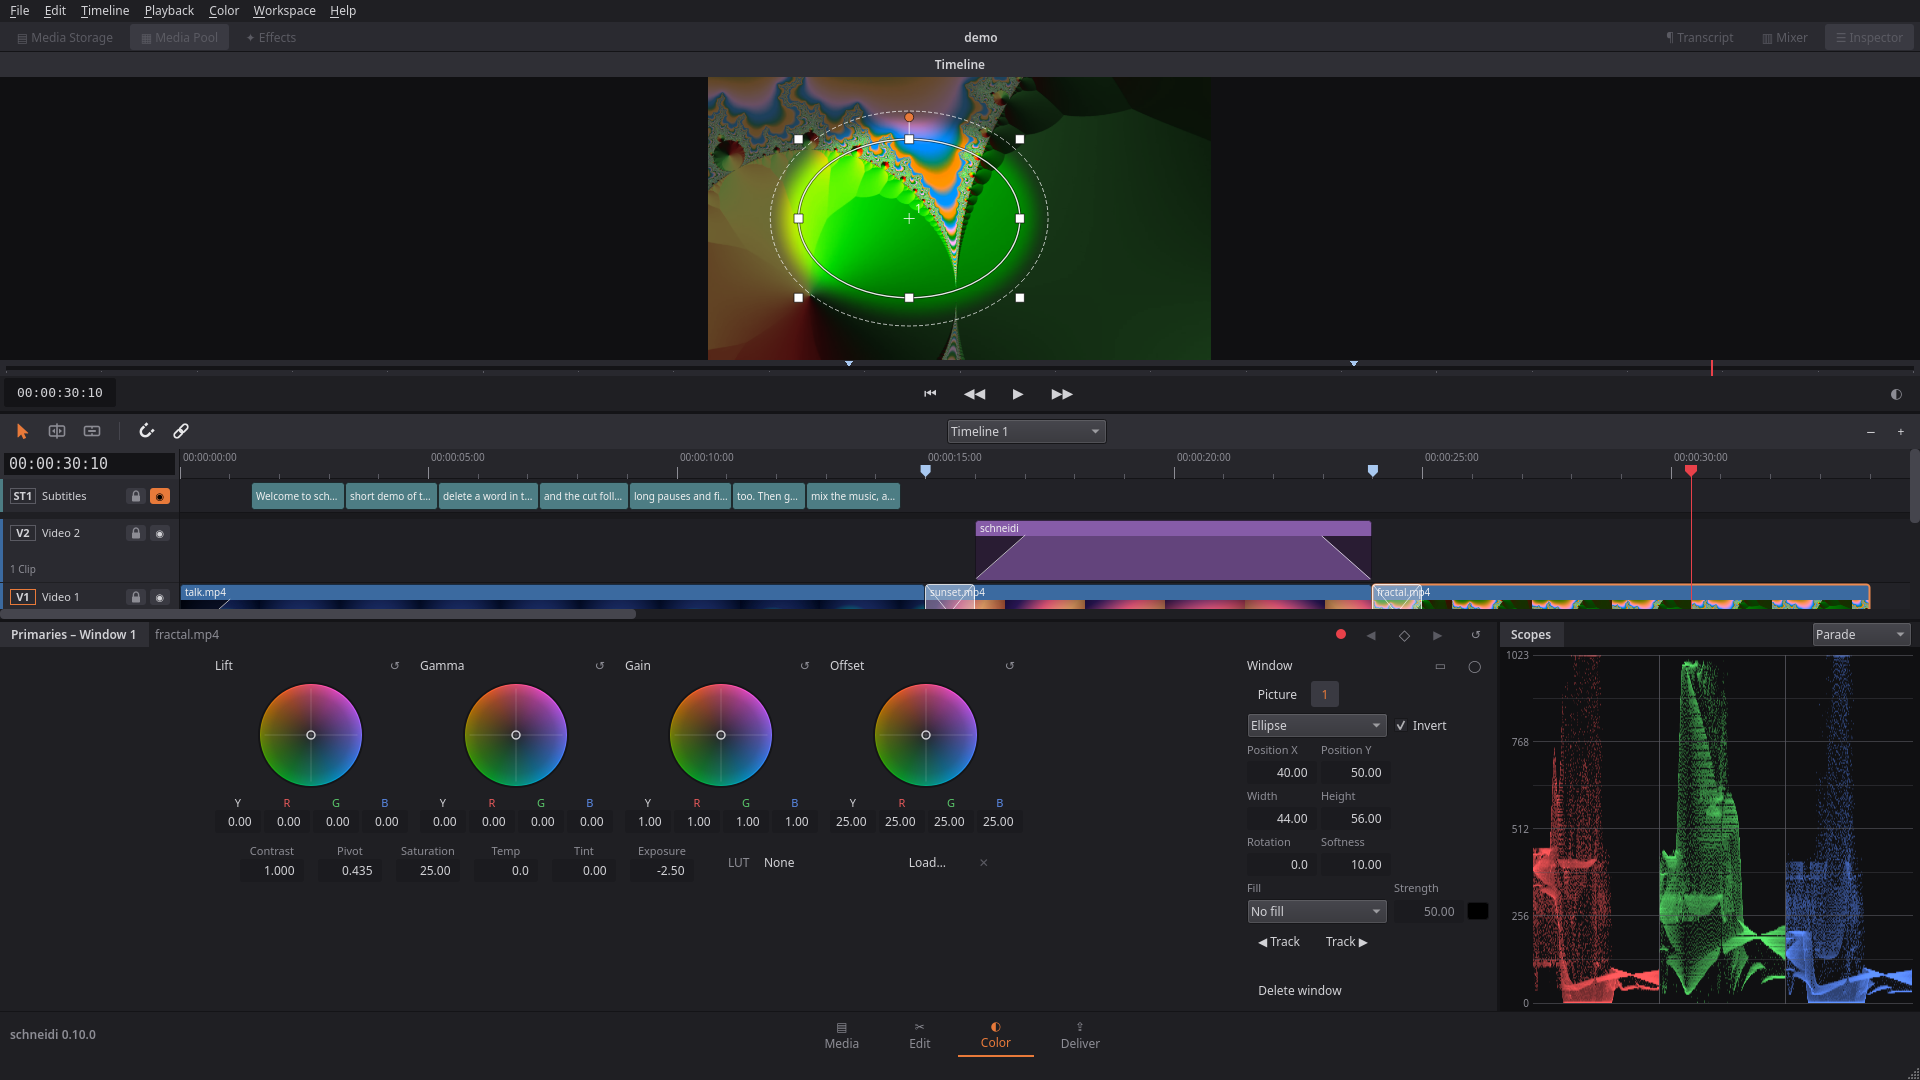
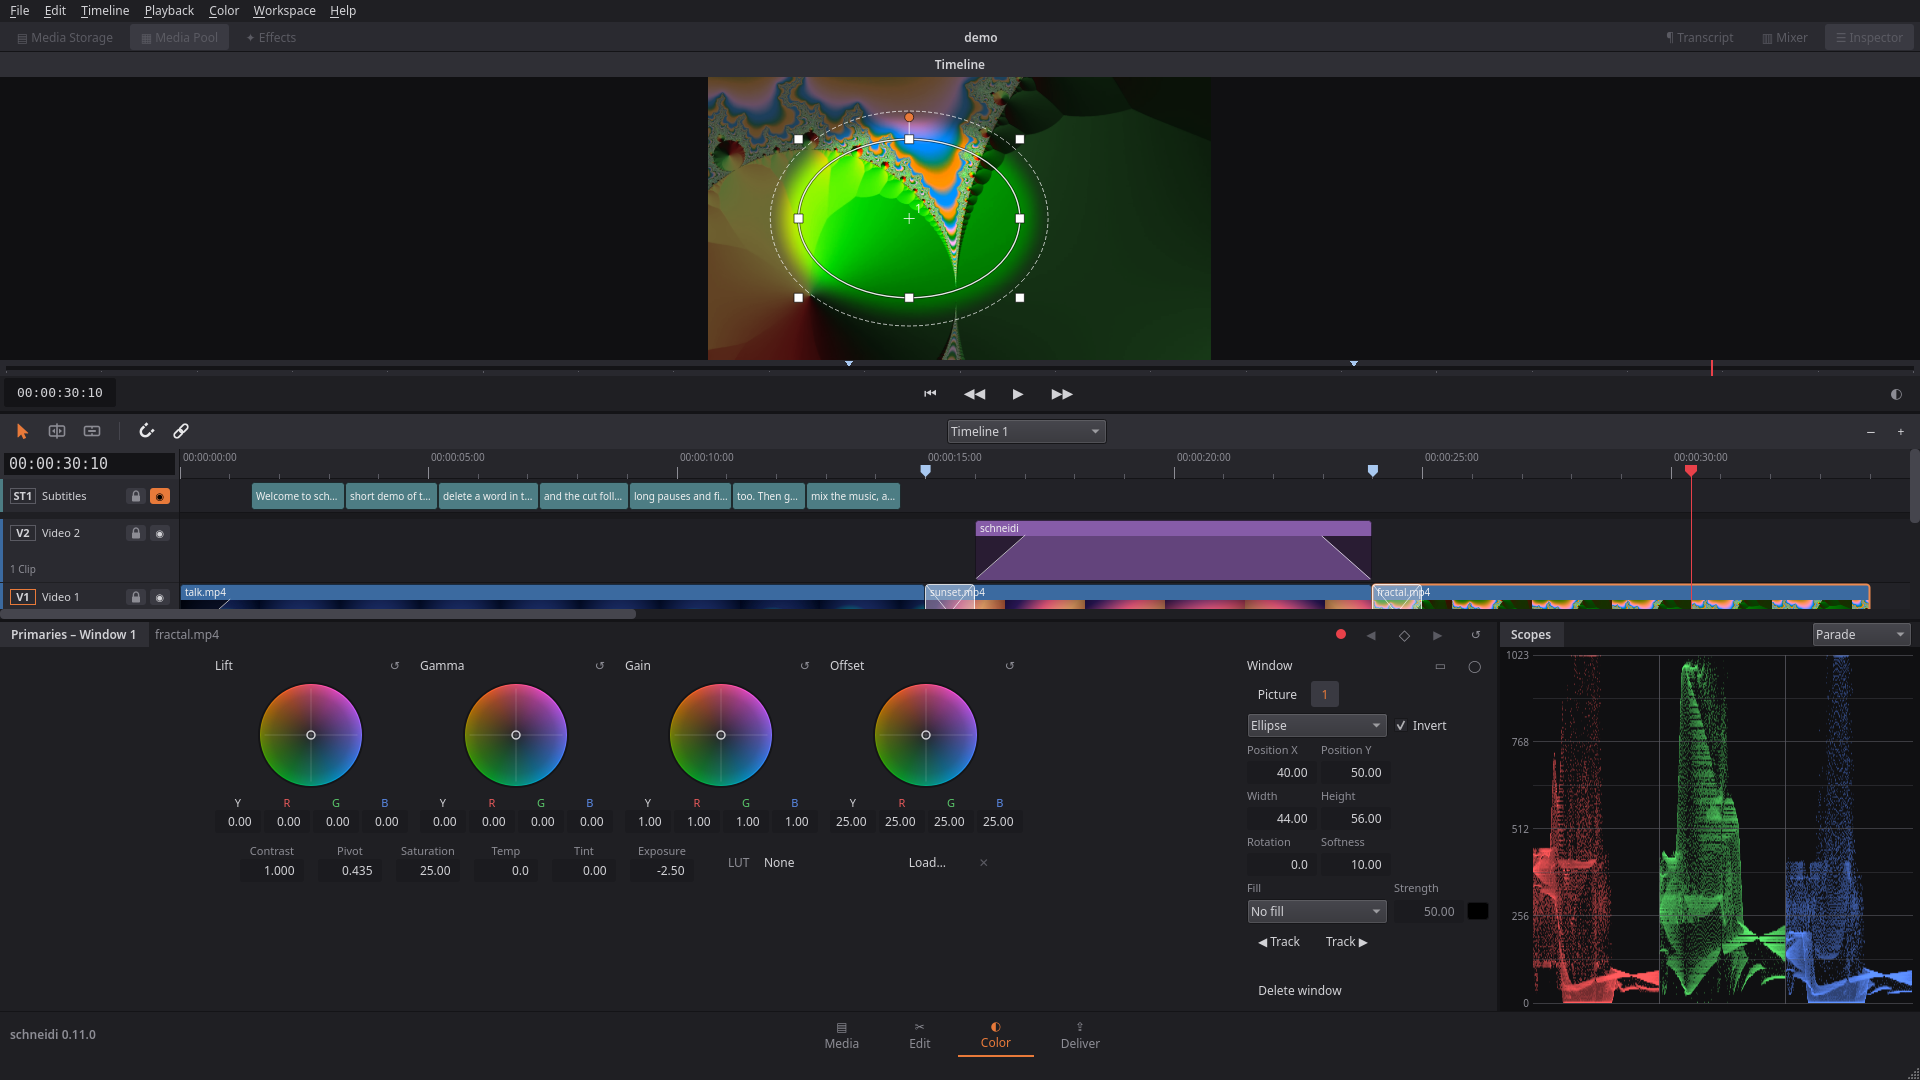
Release 0.11.0 – Boost Update
Version 0.11.0. README: roadmap moves on to 0.11.x fixes and the 0.12 AI
Update, features name own decoding, proxy offer and Smart Render, Windows
build tested less thoroughly than Linux. All README images and the demo
GIF re-rendered (version 0.11.0, Smart Render row on the Deliver page).

Changed region(s): [[0.7812, 0.6111, 1.0, 0.9167], [0.4688, 0.1528, 0.5, 0.2139], [0.4375, 0.1222, 0.4688, 0.1528]]

diff --git a/README.md b/README.md
@@ -6,7 +6,7 @@ schneidi has four pages – Media, Edit, Color and Deliver – and fewer feature
 
 [![Download](https://img.shields.io/github/v/release/OnkelTheorie/schneidi?label=Download&color=2ea44f)](https://github.com/OnkelTheorie/schneidi/releases/latest)
 
-**[Download the latest release](https://github.com/OnkelTheorie/schneidi/releases/latest)** (Linux AppImage or Debian package). Windows: no download yet – [build it yourself](#building); an installer is planned for 1.0.
+**[Download the latest release](https://github.com/OnkelTheorie/schneidi/releases/latest)** (Linux AppImage or Debian package). Windows: no download yet – [build it yourself](#building) (tested less thoroughly than Linux); an installer is planned for 1.0.
 
 > Status: early development (0.x). The project file format may still change between versions.
 
@@ -53,8 +53,8 @@ schneidi has four pages – Media, Edit, Color and Deliver – and fewer feature
 - Files with several audio streams (OBS): import presets per stream title – mute the mix, leave out streams, name the tracks
 - Clip speed / retime
 - **Timeline exchange:** import and export FCP7 XML, OpenTimelineIO and EDL – bring a cut over from Premiere Pro or DaVinci Resolve, or hand one over for finishing
-- Proxy and render cache for smooth playback
-- Export and render queue via FFmpeg: H.264, H.265, AV1, VP9 (WebM), ProRes and DNxHR, animated GIF, PNG/TIFF/JPEG image sequences and audio only (AAC, MP3, Opus, WAV, AIFF, FLAC, Apple Lossless); hardware encoders (NVENC, VAAPI, Quick Sync) when available; YouTube/phone presets cap the bit rate
+- Own video decoding, also on the graphics card (NVIDIA, AMD/Intel via VA-API); proxy media and a render cache for smooth playback – schneidi offers proxies when playback cannot keep up
+- Export and render queue via FFmpeg: H.264, H.265, AV1, VP9 (WebM), ProRes and DNxHR, animated GIF, PNG/TIFF/JPEG image sequences and audio only (AAC, MP3, Opus, WAV, AIFF, FLAC, Apple Lossless); hardware encoders (NVENC, VAAPI, Quick Sync) when available; YouTube/phone presets cap the bit rate; **Smart Render** copies unchanged parts of H.264/H.265 recordings instead of encoding them again
 - Subtitles from speech (whisper.cpp, offline) – pick the voice tracks, one subtitle track each; an optional download under Workspace → Extensions
 - Text-based editing: the Transcript panel shows what is said – delete words to cut them, remove pauses
 - **Command line and MCP server** (`schneidi-cli`): scripts or an AI assistant can edit almost everything the app can – find pauses, scene changes, loud moments and events in a part of the picture (kill feed, score), pick highlights (your own kills, loud fights), sync recordings by their sound, build multicam clips, transcribe, cut and trim, grade, animate, mix, duck music and normalize, measure loudness, look at frames (or a detail of them) and scopes, render ([details](#command-line-and-ai-editing-mcp))
@@ -62,7 +62,7 @@ schneidi has four pages – Media, Edit, Color and Deliver – and fewer feature
 
 ## How light is it?
 
-Measured with the current development version (0.11) on a Ryzen 5 5600X restricted with Linux cgroups (cores, RAM, no swap) – a stand-in for old hardware, not a real old laptop.
+Measured with 0.11 on a Ryzen 5 5600X restricted with Linux cgroups (cores, RAM, no swap) – a stand-in for old hardware, not a real old laptop.
 
 **Starting:**
 
@@ -157,19 +157,18 @@ The AppImage contains the CLI too: `./schneidi-<version>-x86_64.AppImage cli hel
 
 What we are working on next. Plans can still change; the order within a version is not fixed.
 
-### 0.10.x – bug fixes
-Only fixes for problems found in 0.10.0 – new features wait for the next version.
+### 0.11.x – bug fixes
+Only fixes for problems found in 0.11.0 – new features wait for the next version.
 
-### 0.11 – Boost Update
+### 0.12 – AI Update
 | Feature | What it does |
 |---|---|
-| **Own export path** | Decoding, fetching pictures and encoding run in parallel without extra copies – exports about 1.3–1.6× faster (measured: NVENC 49 → 75 frames/s, x264 ultrafast 45 → 68, x264 medium 34 → 41 on the project above) |
-| **Smart Render** | Parts of the timeline that are not changed are copied instead of encoded again |
-| **Own decoding, also on the graphics card** | Smooth playback of large files with 2 cores and a graphics card, or 4 cores without one (see How light is it?) |
-| **Crash report** | After a crash, schneidi offers a local report you can look at and send yourself – no telemetry |
+| **AI chat in the app** | A chat panel next to the timeline that edits live with the same tools as the MCP server – Claude, OpenAI-compatible or local (Ollama); let it work directly or review its changes and accept them as one undo step |
+| **Claude skill/plugin** | One command installs everything Claude needs to edit with schneidi |
+| **Server version** | schneidi on a server or in Docker, for fully automatic editing through MCP, CLI or HTTP |
+| **Update notice** | Once a day schneidi asks GitHub for a new release – can be switched off, no error without a network |
 
 ### Later
-- **0.12 – AI Update:** an AI chat right in the app (Claude, OpenAI-compatible or local), a Claude skill/plugin, a server version for fully automatic editing, an update notice
 - **0.13 – Everyday Update:** change the order of effects, slip/slide tools, color grades shown in the filmstrip and Media Pool, Media Pool filters
 - **0.14 – Shorts Update:** auto-reframe between 16:9 and 9:16, word-by-word captions, presets for Shorts/Reels/TikTok, voiceover recording, text to speech
 - **0.15 – Template Update:** templates with placeholders filled from a list, brand kit
